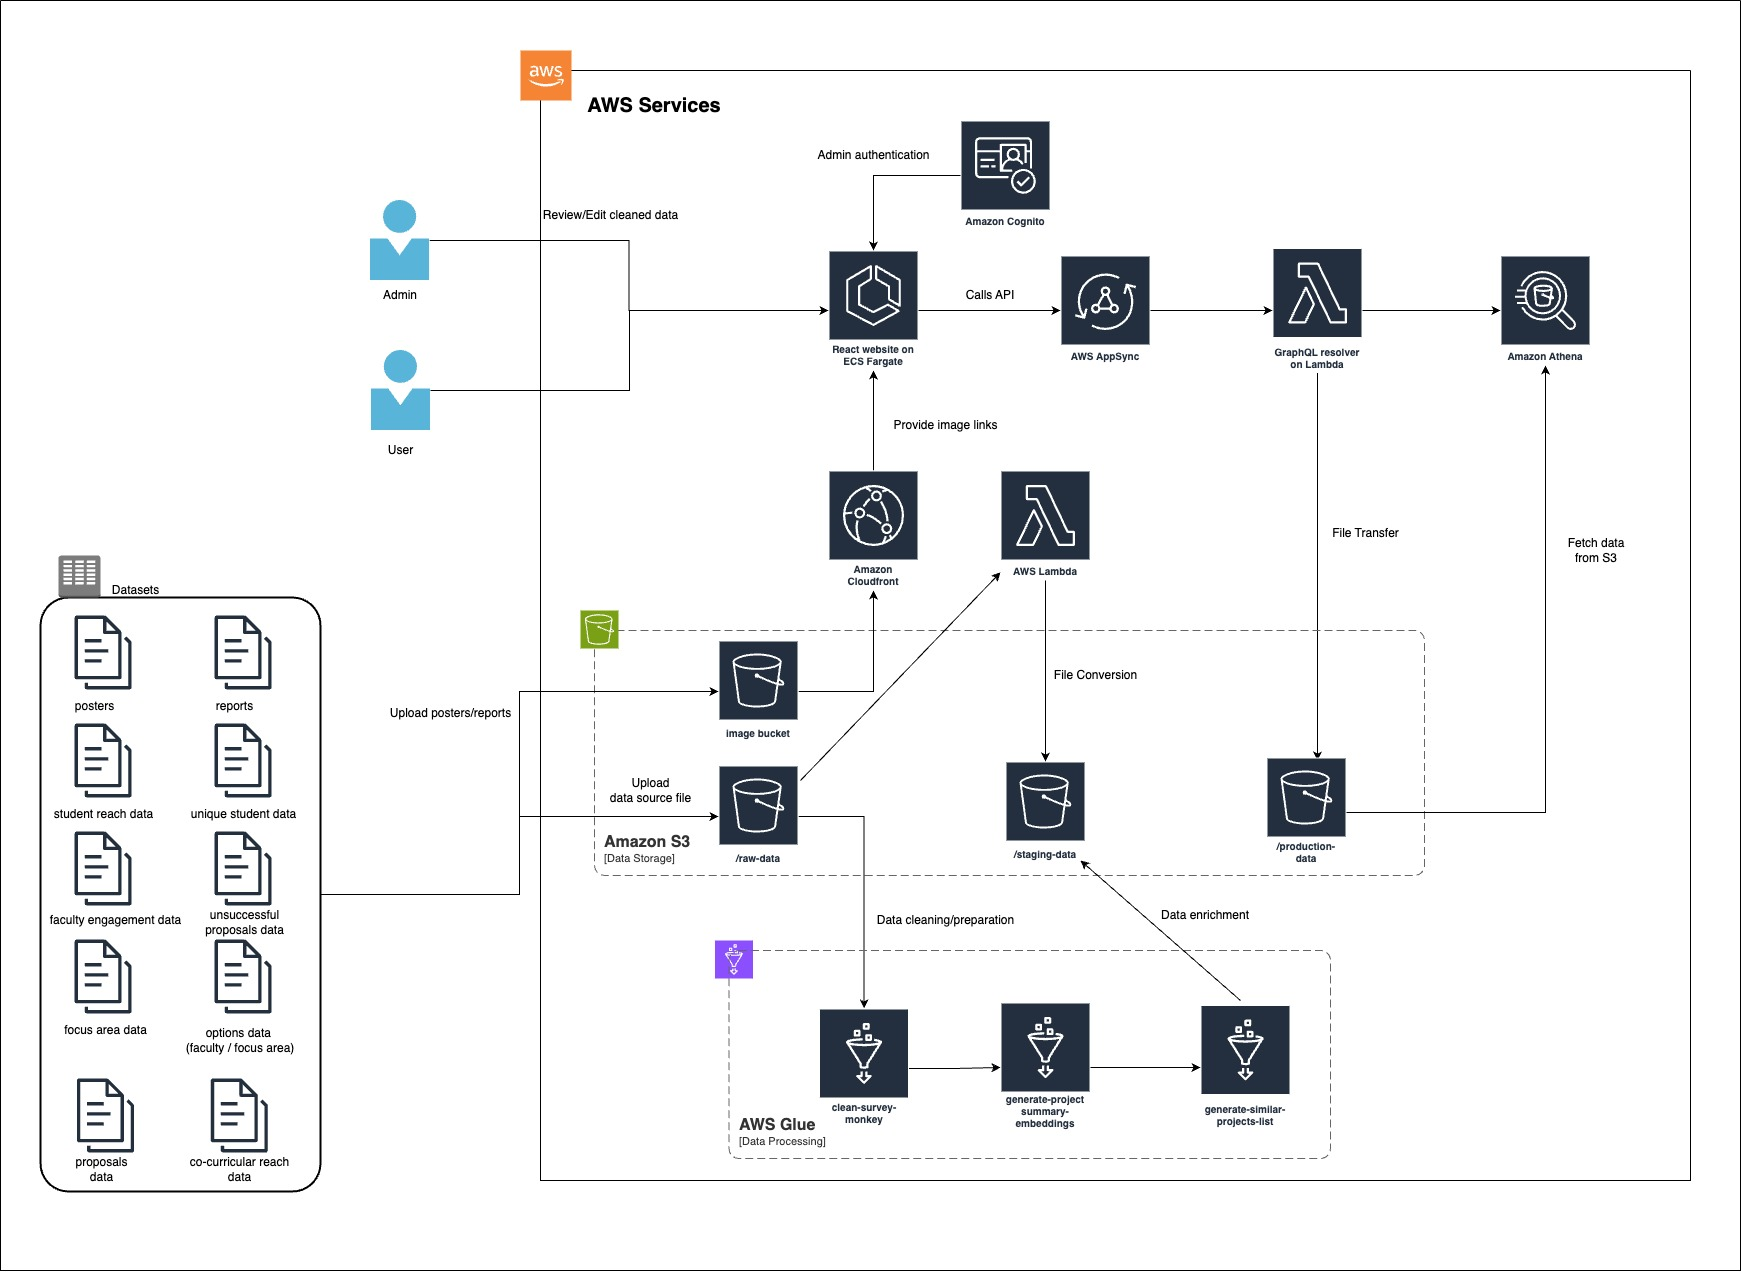
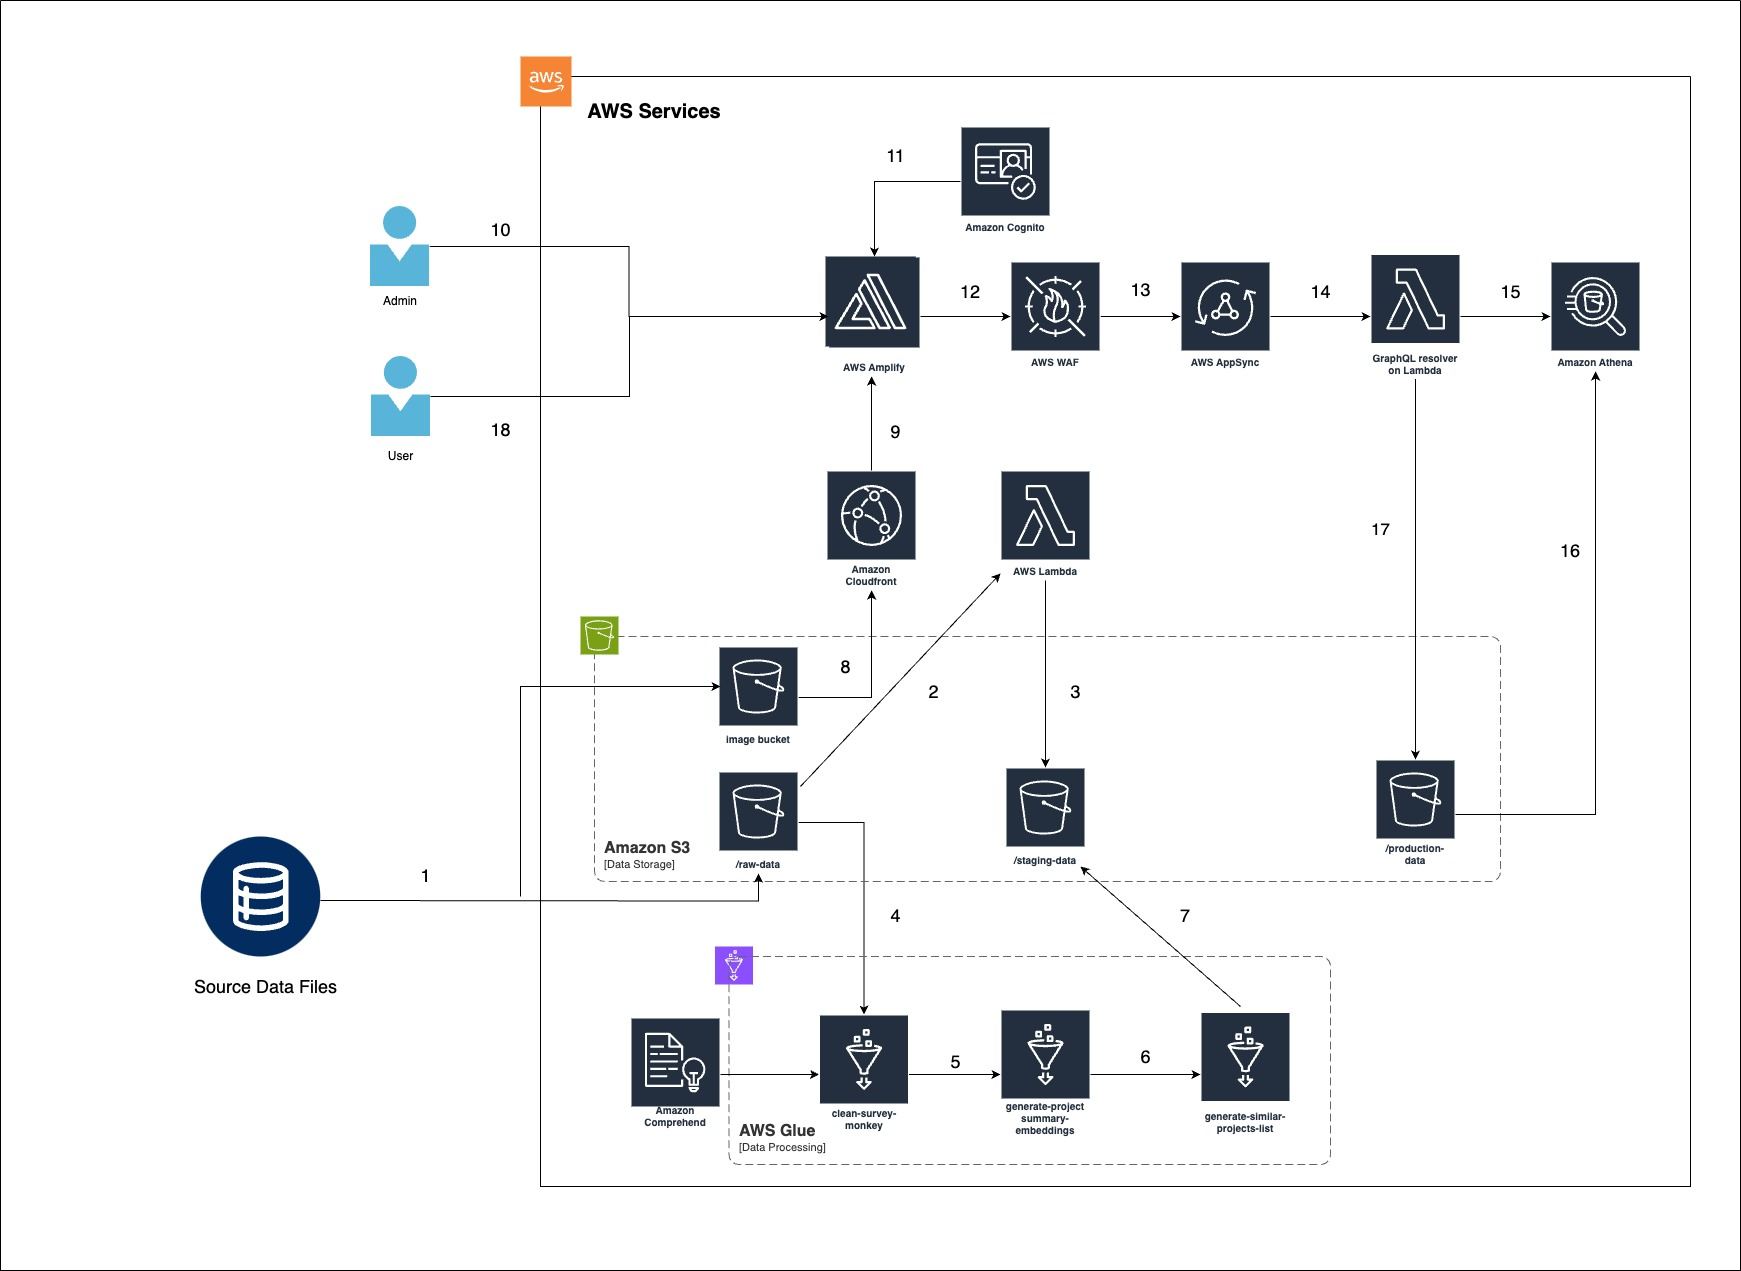
update architecture diagram

diff --git a/README.md b/README.md
@@ -14,7 +14,7 @@ The TLEF (Teaching and Learning Enhancement Fund) Analytics prototype solutions 
 
 ## High Level Architecture
 The following architecture diagram illustrates the various AWS components utilized to deliver the solution. For an in-depth explanation of the frontend and backend stacks, refer to the [Architecture Design](./docs/ArchitectureDesign.md).
-![Architecture Diagram](docs/images/architecture_design.jpg)
+![Architecture Diagram](docs/images/architecture-diagram.jpg)
 
 ## Deployment
 For instructions on how to deploy the application, refer to the [Deployment Guide](./docs/DeploymentGuide.md).

diff --git a/docs/ArchitectureDesign.md b/docs/ArchitectureDesign.md
@@ -8,7 +8,7 @@ This document provides a more in-depth explanation of the system's architecture 
 - [Public User Visits the Web Application(18)](#public-user-visits-the-web-application18)
 
 ## Architecture
-![Architecture Design](./images/architecture_design.jpg)
+![Architecture Design](./images/architecture-diagram.jpg)
 
 ## Data Preparation(1-7)
 
